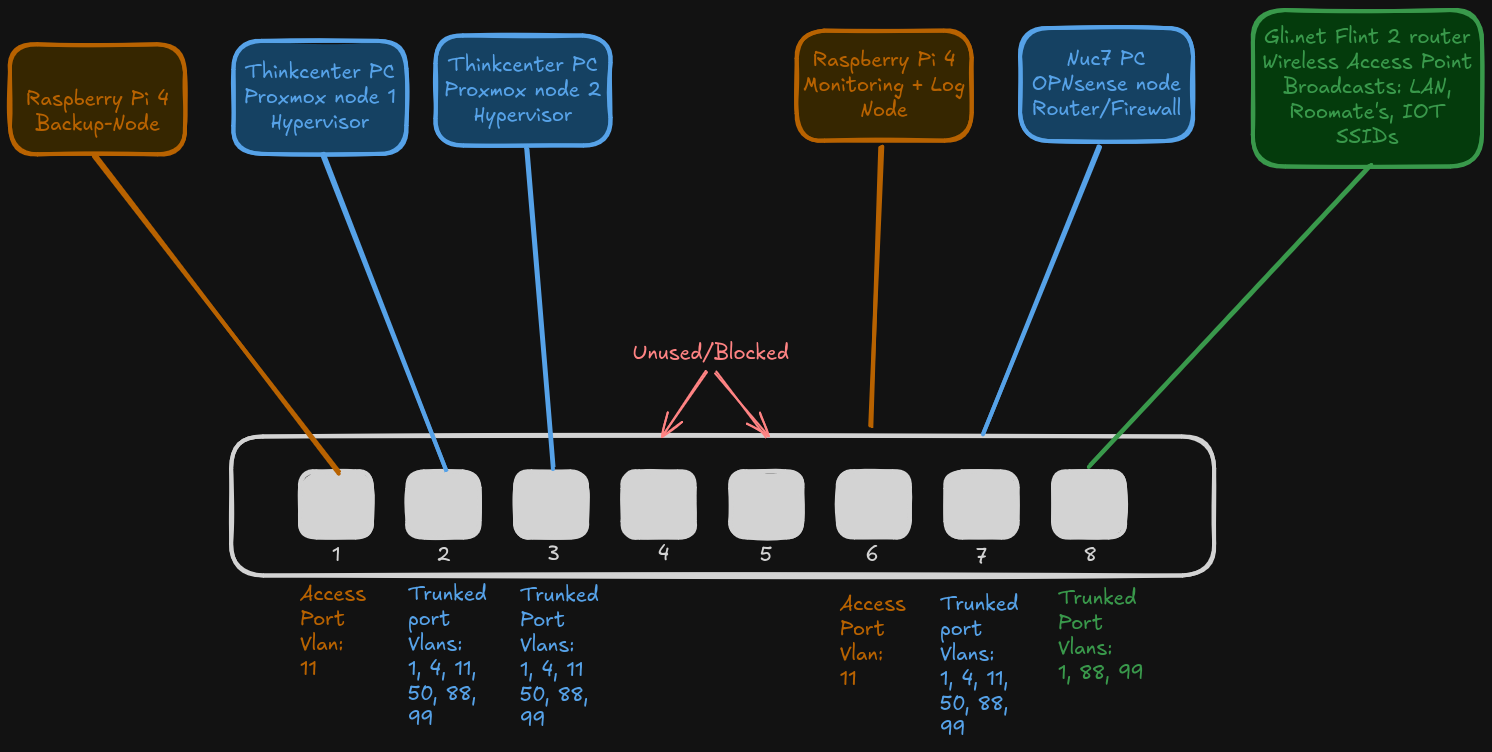
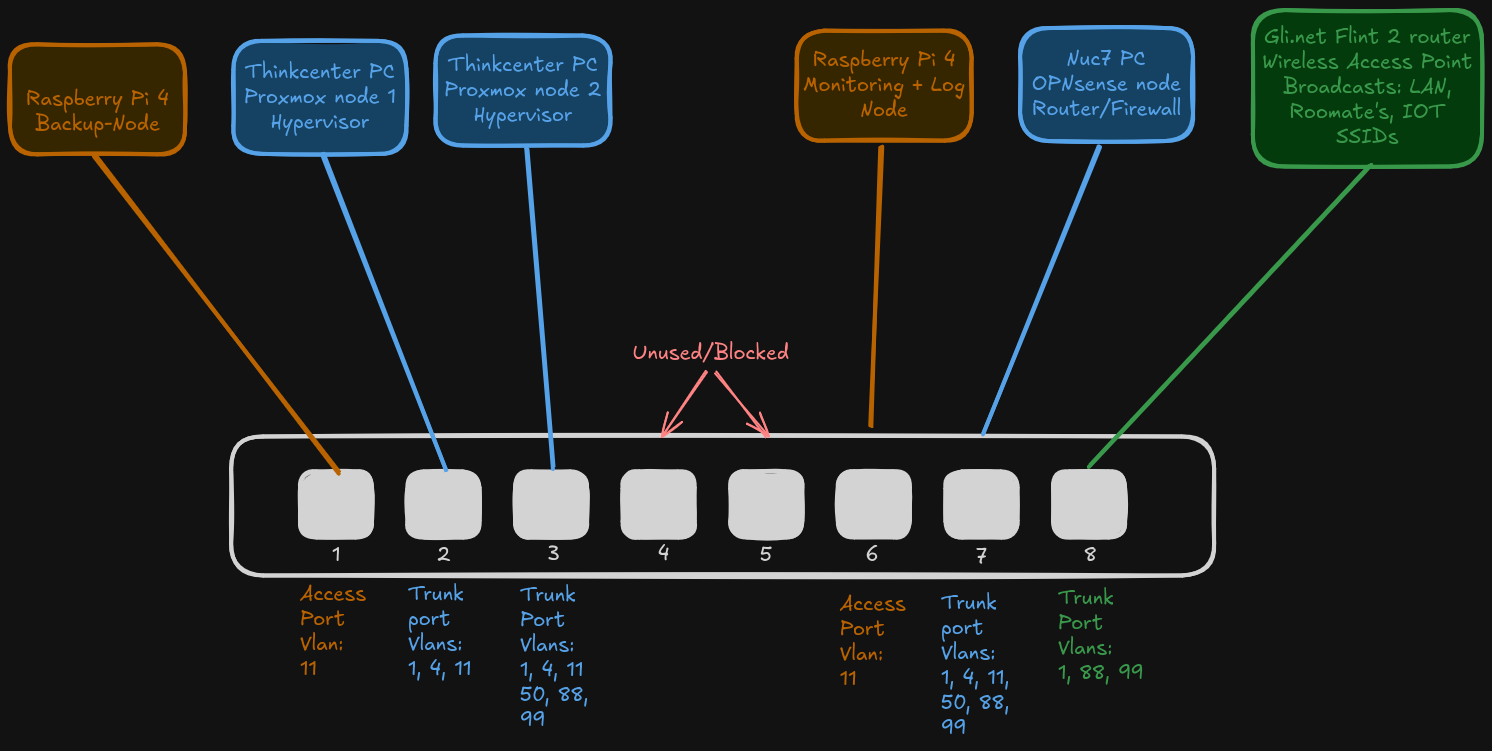
switchport update

diff --git a/Nodes/switch.md b/Nodes/switch.md
@@ -8,9 +8,9 @@
 ---
 
 ## Key configurations
-- Port 1: Proxmox-2 on VLAN 11 with tagged VLANS 1, 4, 50, 88, and 99
-- Port 2: Proxmox-1 on VLAN 11 with tagged VLANs 1, 4, 50, 88, and 99
-- Port 3: backup-node on VLAN 11
+- Port 1: backup-node on VLAN 11
+- Port 2: Proxmox-1 on VLAN 11 with tagged VLANs 1, and 4
+- Port 3: Proxmox-2 on VLAN 11 with tagged VLANS 1, 4, 50, 88, and 99
 - Port 6: observer on VLAN 11
 - Port 7: OPNsense LAN with VLAN 1 native and tagged VLANs 4, 11, 50, 88, and 99
 - Port 8: Flint2 on VLAN 1 native with VLANs 88 and 99 tagged

diff --git a/Architecture Overview/network-topology.md b/Architecture Overview/network-topology.md
@@ -47,9 +47,9 @@ The following table is the current physical layout on the switch. `PVID` is the 
 
 | Port | Connected device | PVID | Tagged VLANs |
 | --- | --- | --- | --- |
-| 1 | Proxmox-2 | 11 | 1, 4, 50, 88, 99 |
-| 2 | Proxmox-1 | 11 | 1, 4, 50, 88, 99 |
-| 3 | backup-node | 11 | None |
+| 1 | backup-node | 11 | None |
+| 2 | Proxmox-1 | 11 | 1, 4 |
+| 3 | Proxmox-2 | 11 | 1, 4, 50, 88, 99 |
 | 4 | Unused | 50 | None |
 | 5 | Unused | 50 | None |
 | 6 | observer | 11 | None |
